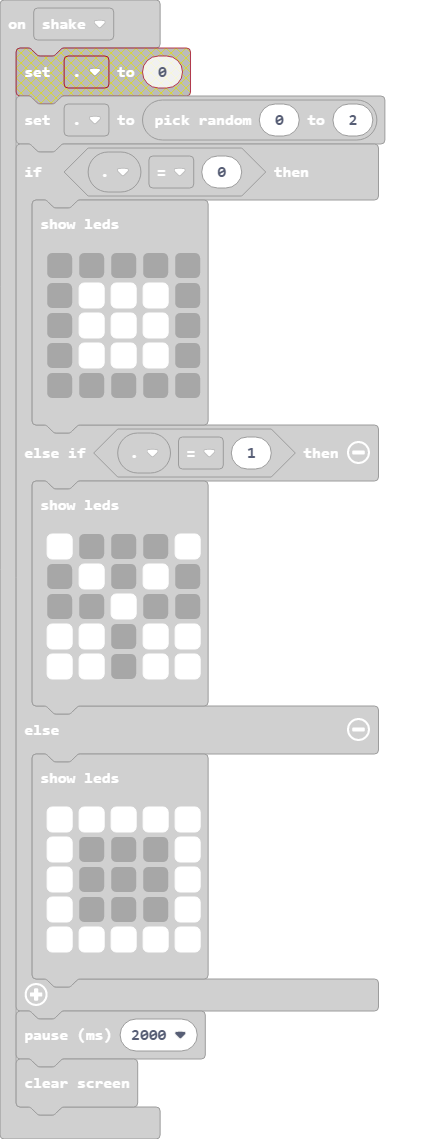
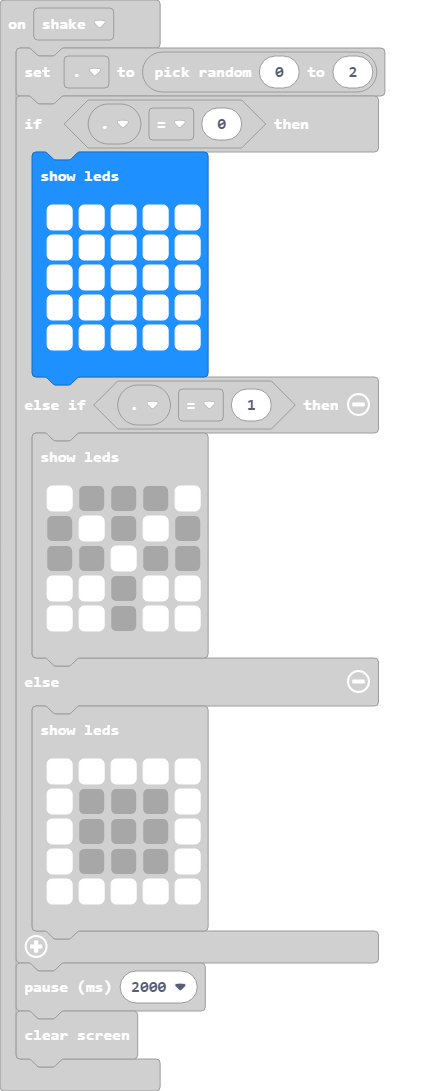
Update main.blocks, main.ts

Changed region(s): [[0.0297, 0.0312, 0.8924, 0.9661]]

diff --git a/main.ts b/main.ts
@@ -3,11 +3,11 @@ input.onGesture(Gesture.Shake, function () {
     _ = randint(0, 2)
     if (_ == 0) {
         basic.showLeds(`
-            . . . . .
-            . # # # .
-            . # # # .
-            . # # # .
-            . . . . .
+            # # # # #
+            # # # # #
+            # # # # #
+            # # # # #
+            # # # # #
             `)
     } else if (_ == 1) {
         basic.showLeds(`
